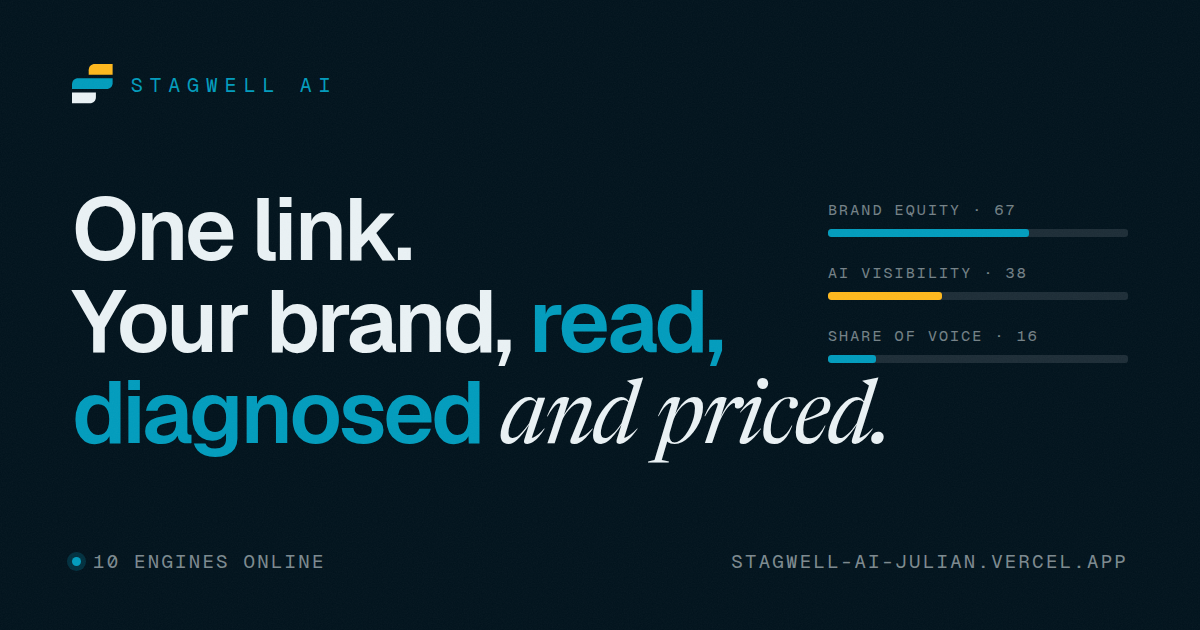
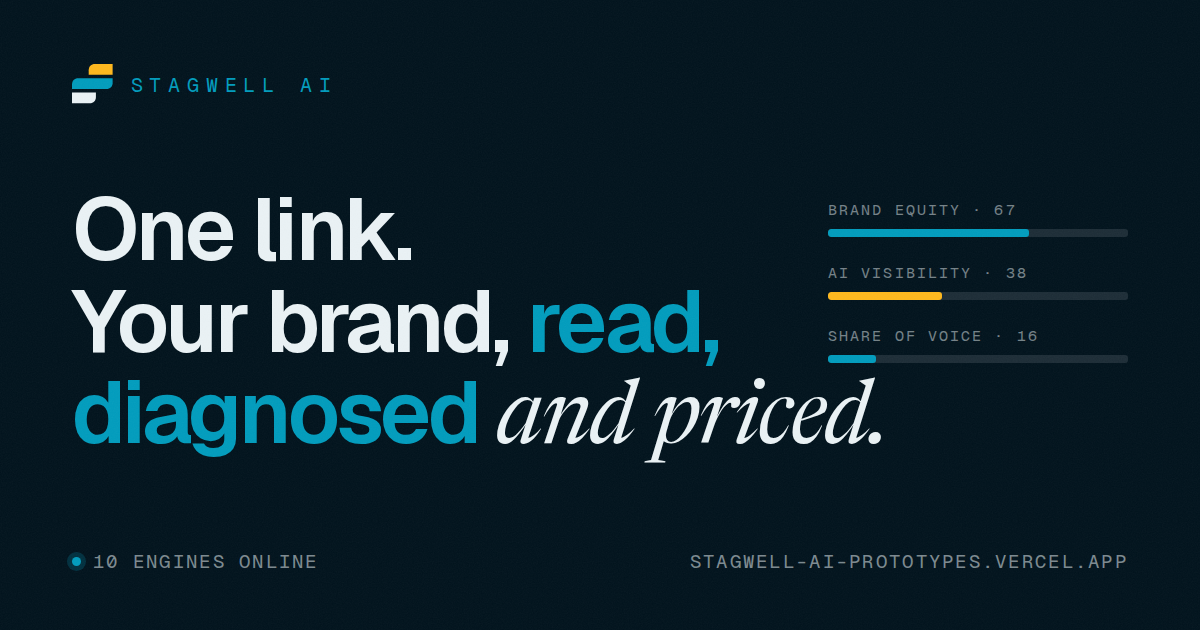
Point the share metadata at the live host
The build's canonical, og:url and og:image tags still named the old
pre-integration deployment, and the paths inside them predated the move into
machine/. Both are corrected in one pass, so the workspace, the dashboard and
the changelog each declare the URL they actually live at.

The OG card carried the old host as rendered text, so it is re-rendered from
its committed HTML source rather than edited as an image -- which is what
that source is kept around for.

The landing page gains the same treatment: canonical, Open Graph and Twitter
tags, now that there is a host to name.

Claude-Session: https://claude.ai/code/session_01Q4kHCbURB2GGL6Z7RBR5Bt

diff --git a/machine/index.html b/machine/index.html
@@ -7,20 +7,20 @@
 <meta name="description" content="Give me one link. I'll read the company, find the competition, and build your executive brief.">
 
 <!-- Share kit — crawlers need absolute URLs, so the production host is hardcoded -->
-<link rel="canonical" href="https://stagwell-ai-julian.vercel.app/">
+<link rel="canonical" href="https://stagwell-ai-prototypes.vercel.app/machine/">
 <meta property="og:type" content="website">
 <meta property="og:site_name" content="Stagwell AI">
 <meta property="og:title" content="Stagwell AI — The Machine">
 <meta property="og:description" content="Give me one link. I'll read the company, find the competition, and build your executive brief.">
-<meta property="og:url" content="https://stagwell-ai-julian.vercel.app/">
-<meta property="og:image" content="https://stagwell-ai-julian.vercel.app/assets/share/og.png">
+<meta property="og:url" content="https://stagwell-ai-prototypes.vercel.app/machine/">
+<meta property="og:image" content="https://stagwell-ai-prototypes.vercel.app/machine/assets/share/og.png">
 <meta property="og:image:width" content="1200">
 <meta property="og:image:height" content="630">
 <meta property="og:image:alt" content="Stagwell AI — one link. Your brand, read, diagnosed and priced.">
 <meta name="twitter:card" content="summary_large_image">
 <meta name="twitter:title" content="Stagwell AI — The Machine">
 <meta name="twitter:description" content="Give me one link. I'll read the company, find the competition, and build your executive brief.">
-<meta name="twitter:image" content="https://stagwell-ai-julian.vercel.app/assets/share/og.png">
+<meta name="twitter:image" content="https://stagwell-ai-prototypes.vercel.app/machine/assets/share/og.png">
 <meta name="theme-color" content="#00121C">
 
 <link rel="icon" href="./assets/brand/favicon.svg" type="image/svg+xml">

diff --git a/machine/b.html b/machine/b.html
@@ -7,20 +7,20 @@
 <meta name="description" content="Give me one link. I'll read the company, map the market, and build your dashboard.">
 
 <!-- Share kit — crawlers need absolute URLs, so the production host is hardcoded -->
-<link rel="canonical" href="https://stagwell-ai-julian.vercel.app/b.html">
+<link rel="canonical" href="https://stagwell-ai-prototypes.vercel.app/machine/b.html">
 <meta property="og:type" content="website">
 <meta property="og:site_name" content="Stagwell AI">
 <meta property="og:title" content="Stagwell AI — The Machine">
 <meta property="og:description" content="Give me one link. I'll read the company, map the market, and build your dashboard.">
-<meta property="og:url" content="https://stagwell-ai-julian.vercel.app/b.html">
-<meta property="og:image" content="https://stagwell-ai-julian.vercel.app/assets/share/og.png">
+<meta property="og:url" content="https://stagwell-ai-prototypes.vercel.app/machine/b.html">
+<meta property="og:image" content="https://stagwell-ai-prototypes.vercel.app/machine/assets/share/og.png">
 <meta property="og:image:width" content="1200">
 <meta property="og:image:height" content="630">
 <meta property="og:image:alt" content="Stagwell AI — one link. Your brand, read, diagnosed and priced.">
 <meta name="twitter:card" content="summary_large_image">
 <meta name="twitter:title" content="Stagwell AI — The Machine">
 <meta name="twitter:description" content="Give me one link. I'll read the company, map the market, and build your dashboard.">
-<meta name="twitter:image" content="https://stagwell-ai-julian.vercel.app/assets/share/og.png">
+<meta name="twitter:image" content="https://stagwell-ai-prototypes.vercel.app/machine/assets/share/og.png">
 <meta name="theme-color" content="#00121C">
 
 <link rel="icon" href="./assets/brand/favicon.svg" type="image/svg+xml">

diff --git a/machine/upgrades.html b/machine/upgrades.html
@@ -7,17 +7,17 @@
 <meta name="description" content="Thirteen upgrades to the Stagwell AI demo. Five of them are not simulations — the machine asks real models, audits real prompts, and writes the summary itself.">
 <meta name="robots" content="noindex">
 
-<link rel="canonical" href="https://stagwell-ai-julian.vercel.app/upgrades.html">
+<link rel="canonical" href="https://stagwell-ai-prototypes.vercel.app/machine/upgrades.html">
 <meta property="og:type" content="website">
 <meta property="og:site_name" content="Stagwell AI">
 <meta property="og:title" content="Stagwell AI — what we upgraded">
 <meta property="og:description" content="Thirteen upgrades to the demo. Five of them are not simulations.">
-<meta property="og:url" content="https://stagwell-ai-julian.vercel.app/upgrades.html">
-<meta property="og:image" content="https://stagwell-ai-julian.vercel.app/assets/share/og.png">
+<meta property="og:url" content="https://stagwell-ai-prototypes.vercel.app/machine/upgrades.html">
+<meta property="og:image" content="https://stagwell-ai-prototypes.vercel.app/machine/assets/share/og.png">
 <meta property="og:image:width" content="1200">
 <meta property="og:image:height" content="630">
 <meta name="twitter:card" content="summary_large_image">
-<meta name="twitter:image" content="https://stagwell-ai-julian.vercel.app/assets/share/og.png">
+<meta name="twitter:image" content="https://stagwell-ai-prototypes.vercel.app/machine/assets/share/og.png">
 <meta name="theme-color" content="#00121C">
 
 <link rel="icon" href="./assets/brand/favicon.svg" type="image/svg+xml">

diff --git a/index.html b/index.html
@@ -6,6 +6,17 @@
 <title>Stagwell AI — Three prototypes</title>
 <meta name="description" content="What should Stagwell.ai be? Three working prototypes, each a different front door to the same set of AI capabilities.">
 <meta name="theme-color" content="#002334">
+<link rel="canonical" href="https://stagwell-ai-prototypes.vercel.app/">
+<meta property="og:type" content="website">
+<meta property="og:site_name" content="Stagwell AI">
+<meta property="og:title" content="Stagwell AI — Three prototypes">
+<meta property="og:description" content="What should Stagwell.ai be? Three working prototypes, each a different front door to the same set of AI capabilities.">
+<meta property="og:url" content="https://stagwell-ai-prototypes.vercel.app/">
+<meta property="og:image" content="https://stagwell-ai-prototypes.vercel.app/assets/share/og.png">
+<meta name="twitter:card" content="summary_large_image">
+<meta name="twitter:title" content="Stagwell AI — Three prototypes">
+<meta name="twitter:description" content="Three working prototypes, each a different front door to the same set of AI capabilities.">
+<meta name="twitter:image" content="https://stagwell-ai-prototypes.vercel.app/assets/share/og.png">
 <link rel="icon" href="./assets/brand/favicon.svg">
 <link rel="icon" type="image/png" sizes="32x32" href="./assets/share/favicon-32.png">
 <link rel="apple-touch-icon" href="./assets/share/apple-touch-icon.png">

diff --git a/assets/share/og-source.html b/assets/share/og-source.html
@@ -63,7 +63,7 @@
 
   <div class="foot">
     <span class="live"><i></i>10 engines online</span>
-    <span>stagwell-ai-julian.vercel.app</span>
+    <span>stagwell-ai-prototypes.vercel.app</span>
   </div>
 </body>
 </html>

diff --git a/machine/assets/share/og-source.html b/machine/assets/share/og-source.html
@@ -63,7 +63,7 @@
 
   <div class="foot">
     <span class="live"><i></i>10 engines online</span>
-    <span>stagwell-ai-julian.vercel.app</span>
+    <span>stagwell-ai-prototypes.vercel.app</span>
   </div>
 </body>
 </html>
